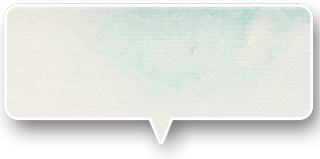
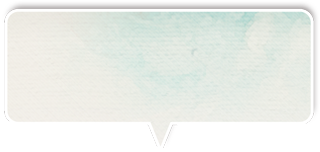
updated callout bubble images

Changed region(s): [[0.0, 0.0263, 1.0, 0.9474]]

diff --git a/src/ArtAround/Classes/Views&Controllers/MapViewController.m b/src/ArtAround/Classes/Views&Controllers/MapViewController.m
@@ -363,7 +363,7 @@ static const int _kAnnotationLimit = 9999;
 		
 		//create the callout if it doesn't exist yet
 		if (!self.callout) {
-			CalloutAnnotationView *aCallout = [[CalloutAnnotationView alloc] initWithCoordinate:[(ArtAnnotation *)view.annotation coordinate] frame:CGRectMake(0.0f, 0.0f, 320.0f, 325.0f)];
+			CalloutAnnotationView *aCallout = [[CalloutAnnotationView alloc] initWithCoordinate:[(ArtAnnotation *)view.annotation coordinate] frame:CGRectMake(0.0f, 0.0f, 320.0f, 335.0f)];
 			[aCallout setMapView:self.mapView.map];
 			[aCallout.button addTarget:self action:@selector(calloutTapped) forControlEvents:UIControlEventTouchUpInside];
 			[self setCallout:aCallout];
